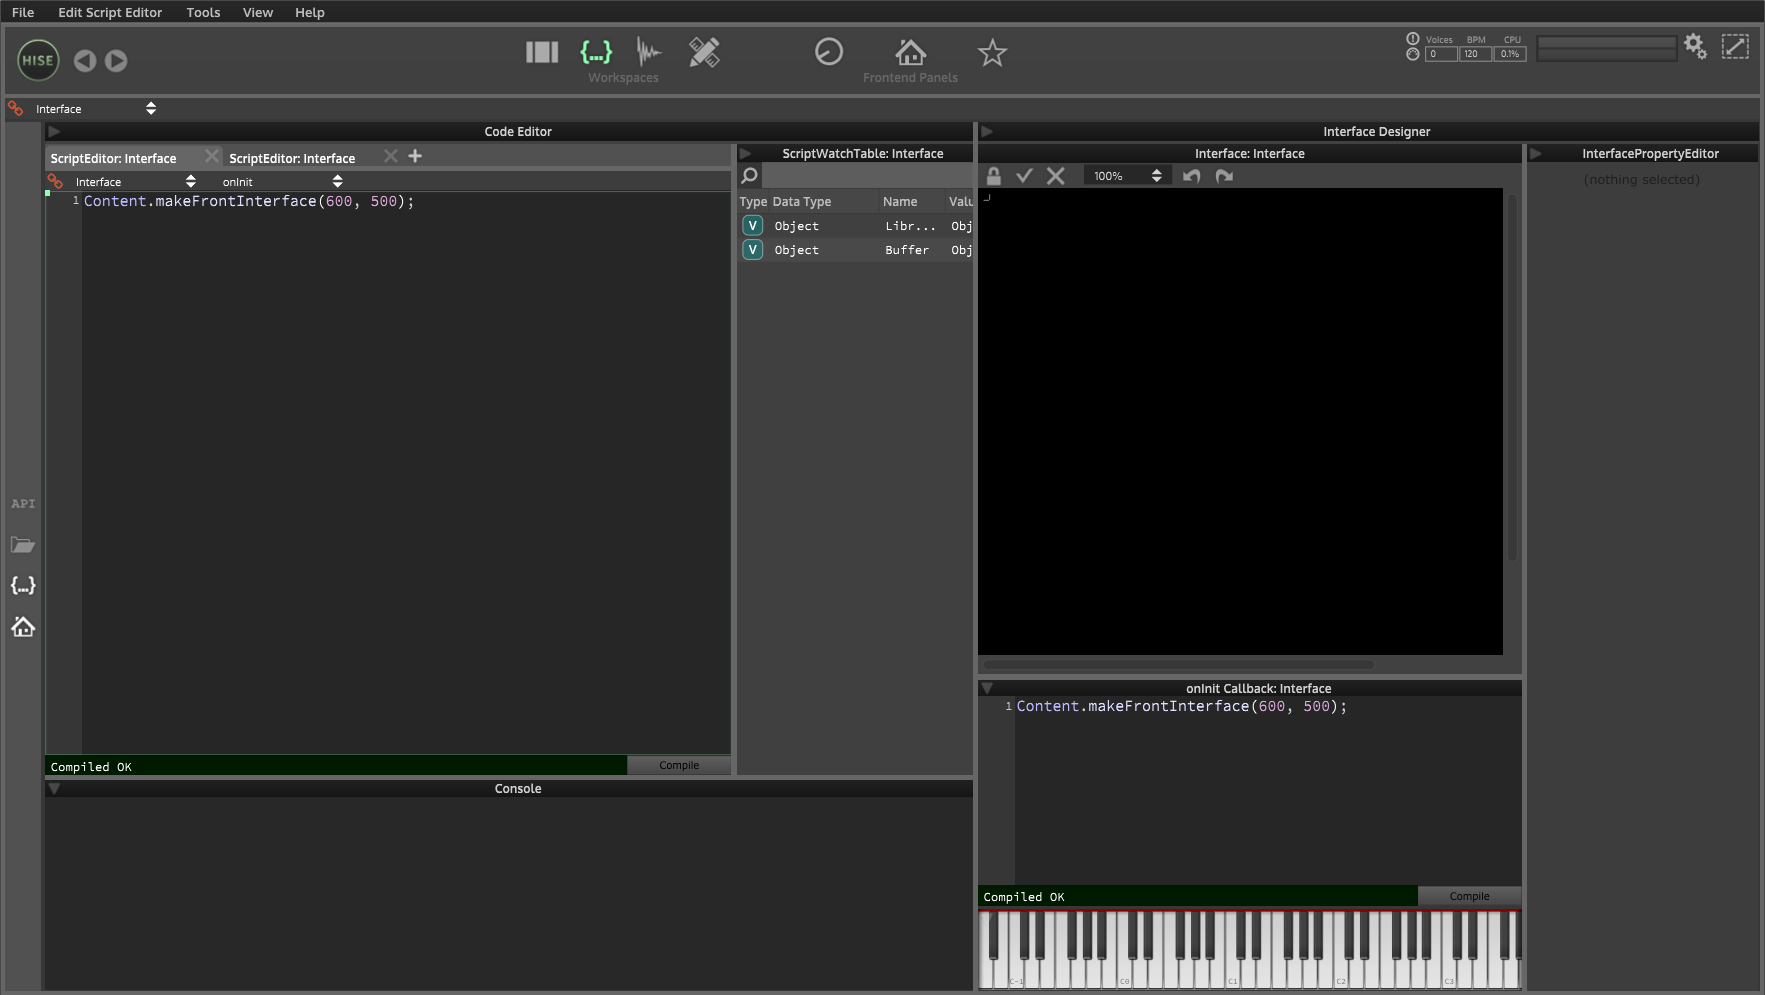
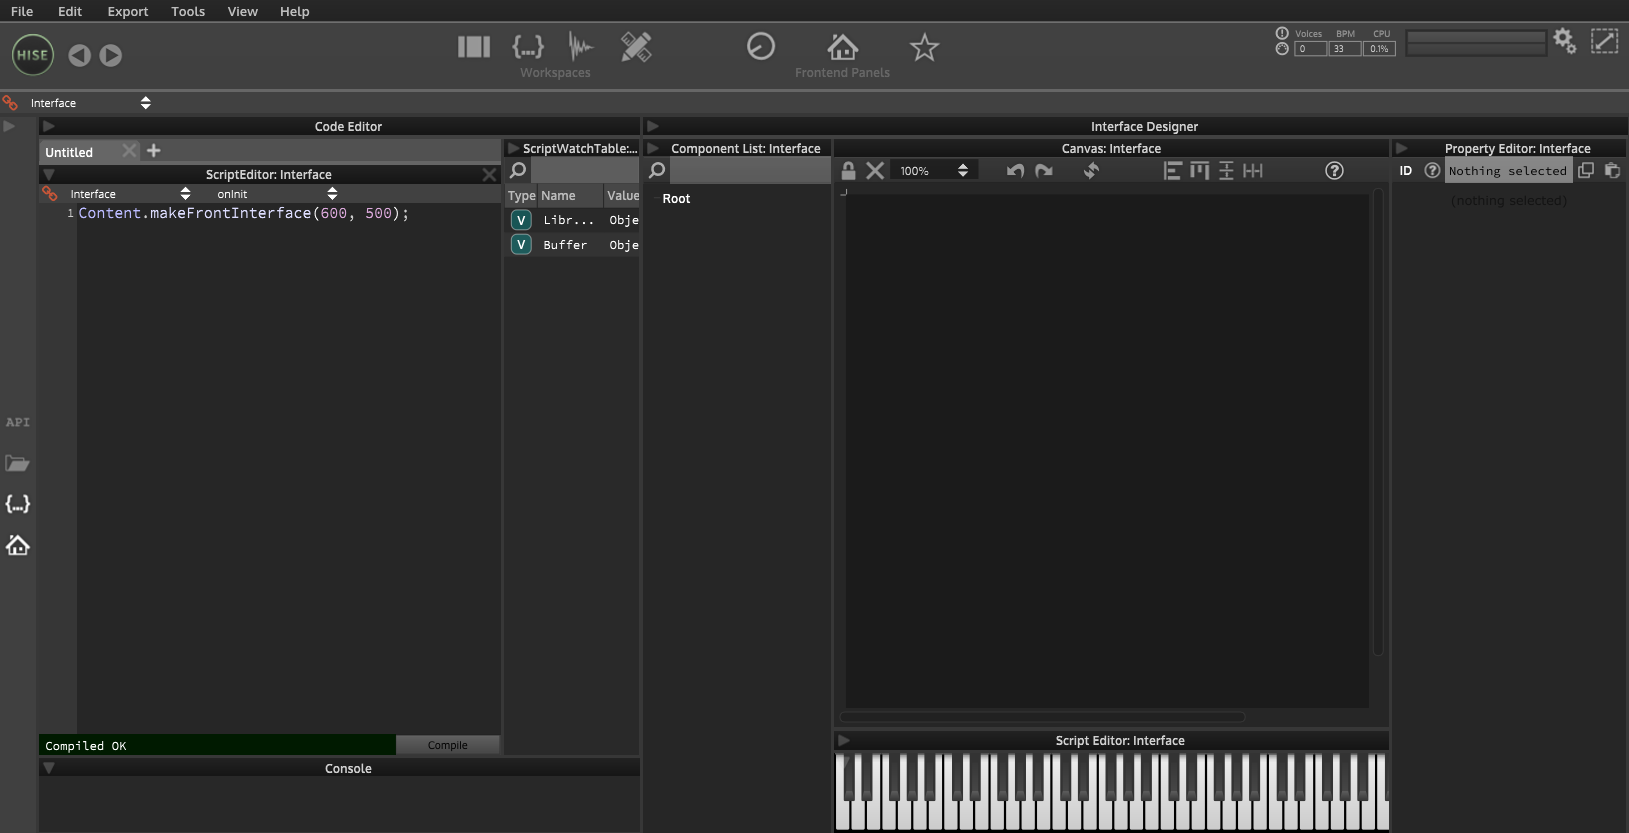
- reworked workspaces docs

diff --git a/working-with-hise/workspaces/main-workspace/right-panel.md b/working-with-hise/workspaces/main-workspace/right-panel.md
@@ -3,4 +3,11 @@ keywords: Right Panel
 summary:  A predefined collection of debugging tools
 index:    03
 ---
-![Left Panel](images/custom/right-panel.png)
+![Right Panel](images/custom/right-panel.png)
+
+The Right Panel features five preselected [HISE Floating Tiles](/ui-components/floating-tiles/hise) to ease your workflow when working in the Module Panel.
+
+
+- In the [MacroTable](/ui-components/floating-tiles/hise/macrotable) you can adjust and refine the Macro values that you can set with the [Macro Controls](/ui-components/floating-tiles/hise/macrocontrols) in the main topbar. 
+- The [ScriptWatchTable](/ui-components/floating-tiles/hise/scriptwatchtable), [InterfacePropertyEditor](/ui-components/floating-tiles/hise/interfacepropertyeditor) and [Console](/ui-components/floating-tiles/hise/console) help you out when you use a [Script Processor](/hise-modules/midi-processors/list/scriptprocessor) directly in the Module Panel. 
+- The [Plotter](/ui-components/floating-tiles/hise/plotter) visualizes the modulation values of [Modulators](/hise-modules/modulators) when you hit the visualization button in each modulators topbar.

diff --git a/working-with-hise/workspaces/main-workspace/module-panel.md b/working-with-hise/workspaces/main-workspace/module-panel.md
@@ -4,3 +4,12 @@ summary:  The main tree of modules of a HISE instrument
 index:    02
 ---
 ![Left Panel](images/custom/main-panel.png)
+
+The **Module Panel** is the space where you patch together the [HISE DSP Modules](/hise-modules) of your plugin/instrument. It always holds the **Master Chain**, which is the parent element of all Modules that you add to it. Click the **plus icon** to add a new [Sound Generator](/hise-modules/sound-generators).
+
+In the signal chain it is also the first and last processed element. Every added [Midi Processor](/hise-modules/midi-processors) preceeds the MIDI Processors of any child and the Gain- and FX Chains are applied to the final sum of all generated sounds at the end.
+
+## Routing Matrix
+
+## Right Click
+* Check children for duplicate IDs

diff --git a/working-with-hise/workspaces/main-workspace/Readme.md b/working-with-hise/workspaces/main-workspace/Readme.md
@@ -4,4 +4,8 @@ summary:  The module tree of the current HISE instrument.
 icon:     /images/icon_main-workspace
 ---
 
-![Left Panel](images/custom/main-workspace.png)
+![Main Workspace](images/custom/main-workspace.png)
+
+The **Main Workspace** is the area of HISE where you patch together Sound Processors, Modulators and FX ([HISE Modules](/hise-modules)) to create the Audio DSP (DigitalSignalProcessing) architecture of your instrument.
+
+You can find the [Module Panel](/working-with-hise/workspaces/main-workspace/module-panel) in the middle and two additional Panels, [Left Panel](/working-with-hise/workspaces/main-workspace/left-panel) and [Right Panel](/working-with-hise/workspaces/main-workspace/right-panel) to access convenient helper functions.

diff --git a/working-with-hise/workspaces/main-workspace/left-panel.md b/working-with-hise/workspaces/main-workspace/left-panel.md
@@ -5,3 +5,13 @@ index:    01
 ---
 
 ![Left Panel](images/custom/left-panel.png)
+
+The Left Panel is an empty wrapper for adding [HISE Floating Tiles](/ui-components/floating-tiles/hise).
+
+**Right-Click** on the surface to add one that matches your current workflow. 
+
+With the button at the top you can add new [Vertical Tiles](/ui-components/floating-tiles/layout/verticaltile) to make space for additional Floating-Tiles.
+
+
+> E.g: A [Filebrowser](/ui-components/floating-tiles/hise/filebrowser) and a [SampleMapPool](/ui-components/floating-tiles/hise/samplemappool) make sense when you work with a [Sampler](/hise-modules/sound-generators/list/streamingsampler).  
+

diff --git a/working-with-hise/workspaces/scripting-workspace/Readme.md b/working-with-hise/workspaces/scripting-workspace/Readme.md
@@ -4,4 +4,6 @@ summary:  The workspace for building interfaces and writing scripts.
 icon:     /images/icon_markdown-editor
 ---
 
-The scripting workspace can be used for interface design and script editing.
+![](images/custom/scripting_workspace.png)
+
+The [Scripting Workspace](/working-with-hise/workspaces/scripting-workspace) is a specialised Workspace that features an IDE-like [Code editor](/working-with-hise/workspaces/scripting-workspace/code-editor) for scripting, side by side with the [Interface Designer](/working-with-hise/workspaces/scripting-workspace/canvas) which helps you to create a GUI for your plugin. 

diff --git a/working-with-hise/workspaces/sampler-workspace/sample-map-editor.md b/working-with-hise/workspaces/sampler-workspace/sample-map-editor.md
@@ -33,12 +33,6 @@ items:
 With the Map Editor you can map your samples and save them as a SampleMap.   
 
 
-
-
-
-
-
-
 ## Toolbar
 
 {ICON_TABLE}
